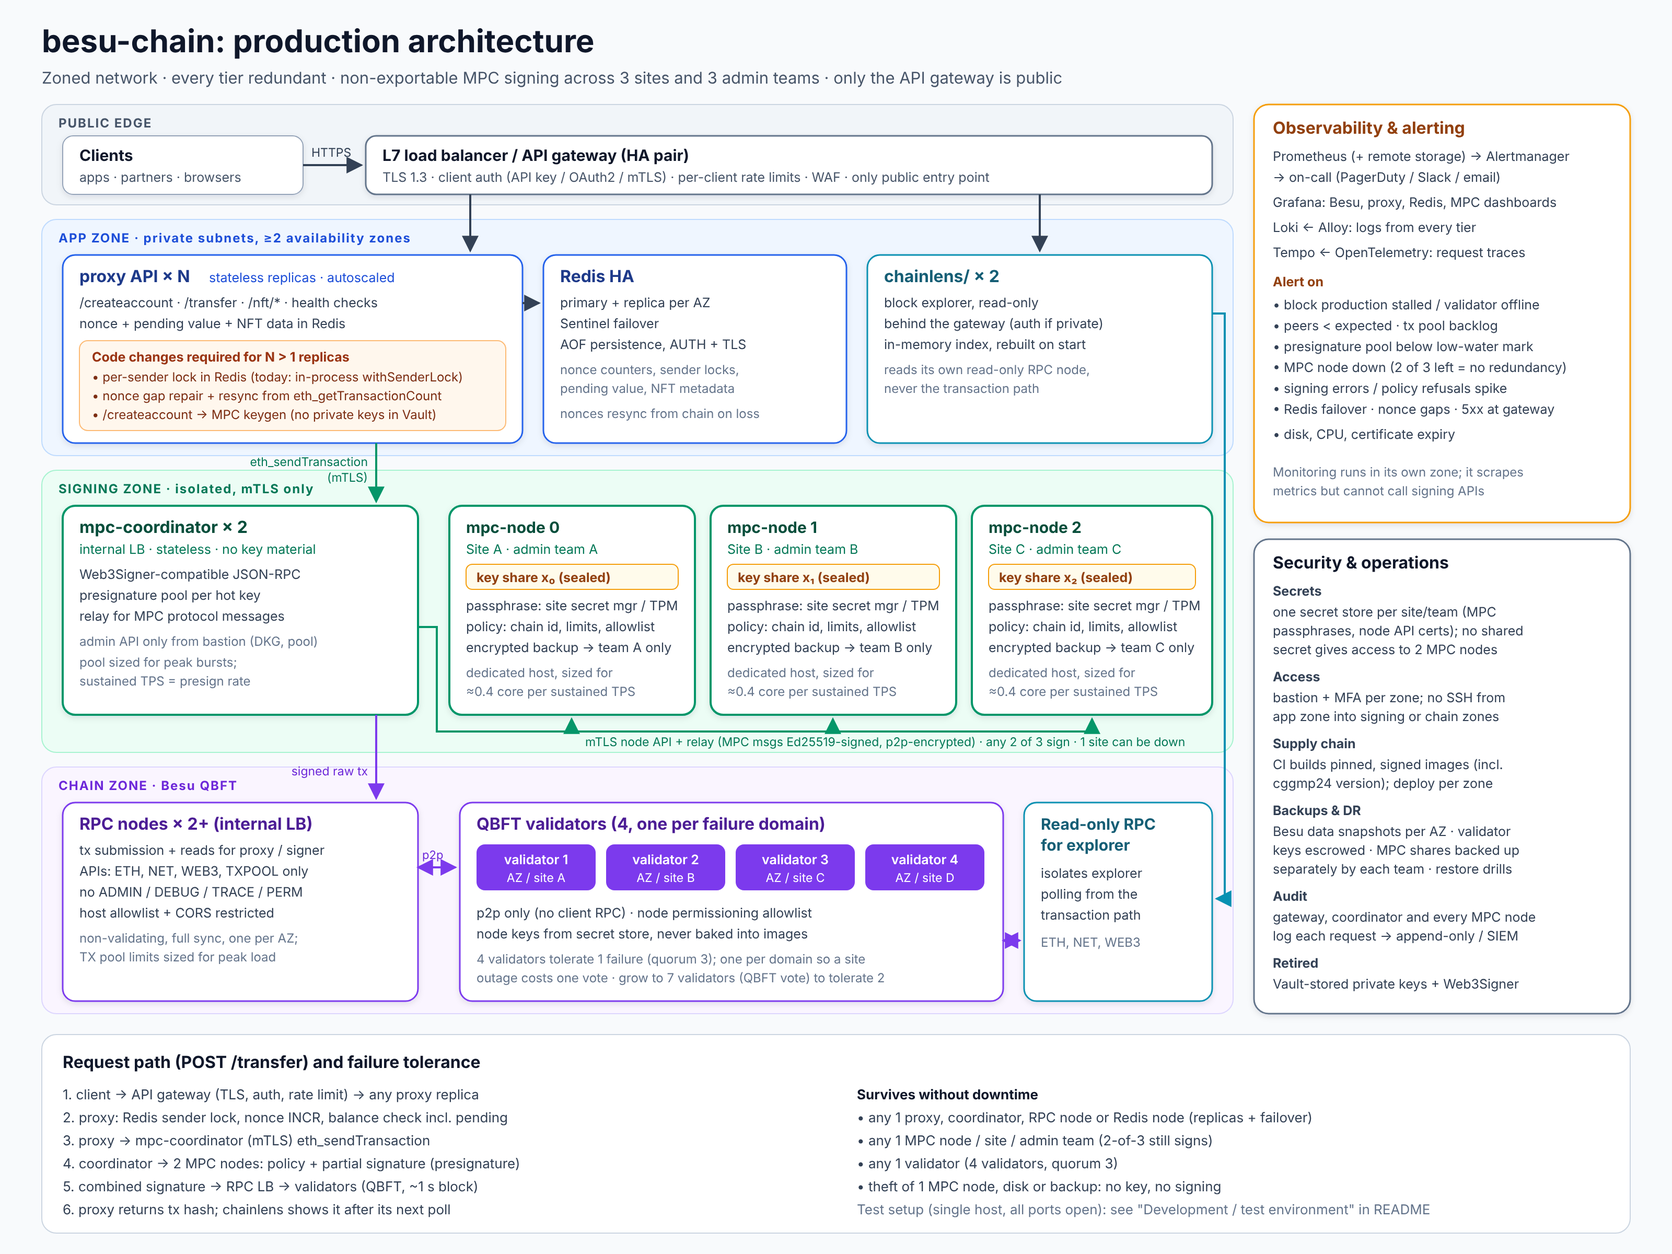
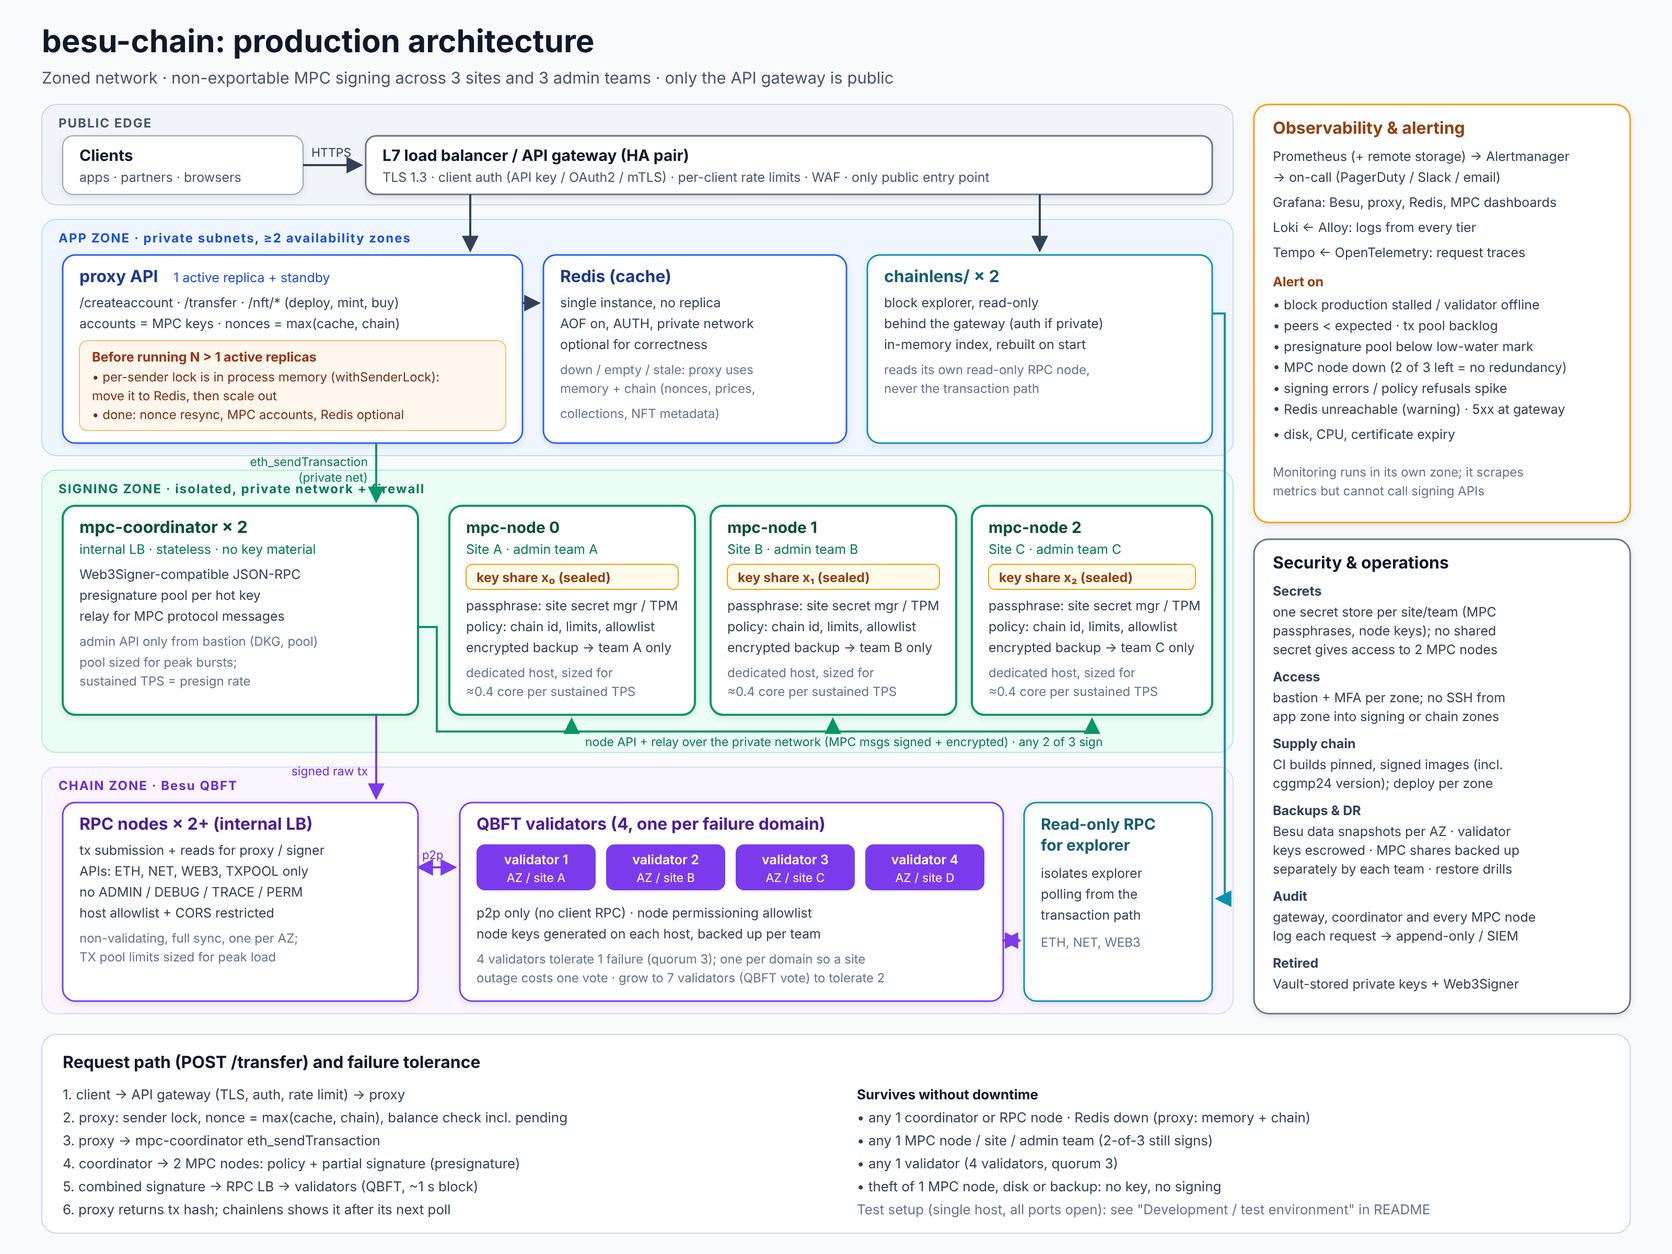
docs: rewrite root README for production and development; refresh production diagram
README: dev vs production overview, components, request flows (transfer,
createaccount, NFT mint and atomic buy), production zones, deployment
order across mpc-signer, besu-production, proxy, chainlens, gateway and
monitoring, failure tolerance, remaining gaps, development quick start,
benchmark, proxy API table and documentation index.

Production diagram updated to the current state: proxy 1 active replica +
standby (sender lock still in memory), Redis as an optional single
instance cache, no mTLS claims (private network + firewall), validator
keys generated per host.

Claude-Session: https://claude.ai/code/session_019V6cx31VFNJeRBvaBtQspb

diff --git a/README.md b/README.md
@@ -1,11 +1,62 @@
 # besu-chain
 
-A private Hyperledger Besu (QBFT) network with:
-- an application API (`proxy/`) for accounts, transfers and NFTs
-- a block explorer (`chainlens/`) and monitoring
-- non-exportable transaction signing with a 2-of-3 MPC signer (`mpc-signer/`), where the private key never exists anywhere. It replaces the current Vault + Web3Signer setup.
+A private Hyperledger Besu (QBFT) blockchain with:
 
-## Production architecture
+- **`proxy/`**: an application API for accounts, ETH transfers and NFT collections;
+- **`mpc-signer/`**: **non-exportable transaction signing**, a 2-of-3 MPC signer where the private
+  key never exists anywhere. It replaces Vault + Web3Signer.
+- **`chainlens/`**: a block explorer, plus monitoring.
+
+The same components run in two setups:
+
+| | Development / test | Production |
+|---|---|---|
+| Where | everything on one Docker host | separate hosts, sites and admin teams |
+| Besu | [`besu-test-network/`](besu-test-network) | [`besu-production/`](besu-production) |
+| MPC signer | [`mpc-signer/quickstart/`](mpc-signer/quickstart) (3 nodes on one host) | [`mpc-signer/deploy/`](mpc-signer/deploy) (one node per host and team) |
+| Proxy, explorer | `proxy/`, `chainlens/` with Docker Compose | same images, private network, behind an API gateway |
+| Guide | [Development](#development--test-environment) | [Production](#production) |
+
+**Contents**
+- [Components](#components)
+- [What happens on a request](#what-happens-on-a-request)
+- [Production](#production): architecture, deployment order, failure tolerance, remaining gaps
+- [Development / test environment](#development--test-environment)
+- [Proxy API](#proxy-api)
+- [Documentation index](#documentation-index)
+
+---
+
+## Components
+
+| Folder | What it is | Ports |
+|---|---|---|
+| [`besu-production/`](besu-production) | **Production Besu**: per-host packages for validators and RPC nodes. Keys are generated on each host; network files are checksummed; static peers + node allowlist; validators added or removed by vote. | 30303 p2p, 8545 RPC nodes, 9545 metrics |
+| [`besu-test-network/`](besu-test-network) | **Development Besu**: 4 validators + `rpcnode` on one host, chain id 1337, 1 s blocks, zero gas price. Prometheus, Grafana, Loki + Alloy, Tempo. (Its bundled Chainlens services are not used.) | 8545 / 8546 rpcnode, 21001–21004, 9090, 3000, 3100 |
+| [`mpc-signer/`](mpc-signer) | **2-of-3 threshold ECDSA signer** (CGGMP24 / LFDT Lockness), Web3Signer-compatible JSON-RPC. Quick start, production packages, benchmark. | 9100 coordinator, 7000 nodes |
+| [`proxy/`](proxy) | **Application API** (Node.js/Express): accounts, transfers, NFT collections. Redis is an optional cache: correctness comes from memory + the chain. | 30000 API, 36379 Redis |
+| [`chainlens/`](chainlens) | **Block explorer** (Node.js/Express): blocks, transactions, accounts, contracts, NFTs. NFT sales show the image. Polls RPC every 4 s, indexes in memory, re-indexes after a chain reset. | 30100 |
+| [`besu-vault-web3signer/`](besu-vault-web3signer) | **Previous signer, being retired**: Vault KV keeps exportable private keys and Web3Signer loads them into memory. Kept for comparison benchmarks. | 8200 Vault, 9000 Web3Signer |
+
+## What happens on a request
+
+**`POST /transfer`** (ETH from an account):
+1. The proxy takes the sender's lock and computes the nonce as max(cached counter, chain pending count), so a lost or stale Redis is harmless.
+2. It checks the balance, including value still pending.
+3. It calls `eth_sendTransaction` on the MPC coordinator.
+4. **2 of the 3 MPC nodes** each check the transaction against their own policy (chain id, value and gas limits, allowlist) and produce a partial signature from a single-use presignature. The coordinator combines them into a normal ECDSA signature.
+5. The signed transaction goes to a Besu RPC node, and the QBFT validators include it in the next block.
+
+**`POST /createaccount`**: the 3 MPC nodes run **distributed key generation**. The new account's private key never exists. `SENDER01` then funds it.
+
+**NFTs** (collections are `NftCollection` version 2, deployed by `SENDER01`):
+- **`POST /nft/mint`** mints to `SENDER01` and stores the **price** on chain. Nothing is paid.
+- **`POST /nft/transfer`** is a sale. The buyer signs **one atomic `buy` transaction**: they pay exactly the price to `SENDER01` and receive the NFT, or nothing happens at all.
+- Collections can be chosen by name, symbol or address.
+
+---
+
+## Production
 
 ![besu-chain production architecture](docs/architecture-production.png)
 
@@ -15,100 +66,127 @@ A private Hyperledger Besu (QBFT) network with:
 
 | Zone | Contents | Reachable from |
 |---|---|---|
-| **Public edge** | L7 load balancer / API gateway (HA pair): TLS 1.3, client authentication (API key, OAuth2 or mTLS), per-client rate limits, WAF | internet (the only public entry) |
-| **App zone** (private subnets, ≥ 2 AZs) | `proxy` × N (stateless, autoscaled), Redis HA (Sentinel, AOF, AUTH + TLS), `chainlens` × 2 (read-only) | gateway only |
-| **Signing zone** (isolated, mTLS only, no internet egress) | `mpc-coordinator` × 2 behind an internal LB; `mpc-node` 0/1/2 on **3 sites run by 3 different admin teams** | proxy → coordinator; coordinator → nodes; bastion for admin |
-| **Chain zone** | RPC nodes × 2+ (internal LB, non-validating); 4 QBFT validators, one per failure domain; a separate read-only RPC node for the explorer | signing + app zones (RPC only); validators: p2p only |
-| **Ops** | Prometheus + Alertmanager, Grafana, Loki + Alloy, Tempo; per-site secret stores; bastion + MFA; CI with pinned, signed images | scrapes metrics; cannot call signing APIs |
+| **Public edge** | L7 load balancer / API gateway (HA pair, bring your own, e.g. nginx, HAProxy, Kong): TLS, client authentication, rate limits, WAF | internet: the **only** public entry |
+| **App zone** | `proxy` (1 active + standby), Redis (single instance, a cache), `chainlens` | the gateway |
+| **Signing zone** | `mpc-coordinator` × 1–2 (no key material); `mpc-node` 0/1/2 on **3 sites, run by 3 different admin teams** | proxy → coordinator → nodes, nodes → coordinator relay; each team's bastion |
+| **Chain zone** | 4 QBFT validators, one per failure domain (p2p only); RPC nodes × 2+ for apps; 1 read-only RPC node for the explorer | apps → RPC nodes only; validators: p2p + the operator over SSH |
+| **Ops** | Prometheus + Alertmanager, Grafana, logs; per-team secret stores and backups; bastion + MFA | scrapes metrics; cannot call signing APIs |
 
-### Request path (`POST /transfer`)
+All hosts communicate over a **private encrypted network** (WireGuard or a site-to-site VPN),
+with default-deny firewalls. Each package includes `firewall-example.sh` with the exact ports.
 
-1. The client calls the API gateway, which checks TLS, authentication and rate limits, then routes to any proxy replica.
-2. The proxy takes the sender's lock in Redis, takes the next nonce with Redis `INCR`, and checks the balance, including value still pending.
-3. The proxy calls `eth_sendTransaction` on `mpc-coordinator` over mTLS. This is the same JSON-RPC Web3Signer exposes.
-4. The coordinator asks 2 of the 3 MPC nodes for partial signatures. Each node checks the transaction against its policy (chain id, value and gas limits, allowlist) before signing, using a single-use presignature. The coordinator combines the partials into a normal ECDSA signature.
-5. The signed raw transaction goes through the RPC load balancer to the validators, which include it in a block (QBFT, about 1 s).
-6. The proxy returns the tx hash. `chainlens` shows the transaction after its next poll of its own read-only RPC node.
+### Deployment order
+
+The MPC signer comes first: its first key, `SENDER01`, is funded in the Besu genesis block.
+
+| # | Step | Guide | Result |
+|---|---|---|---|
+| 1 | **MPC signer: nodes + key ceremony.** 3 node hosts (one team each), coordinator(s), `cluster.json` with the signing policy, aux info + key generation. | [`mpc-signer/docs/production.md`](mpc-signer/docs/production.md), steps 1–8 | `SENDER01` address; no private key exists |
+| 2 | **Besu network.** Each validator and RPC host runs `init.sh`; the operator runs `make-network.sh` with `ALLOC="<SENDER01>=<wei>"`; each host runs `start.sh` (verifies `SHA256SUMS`). | [`besu-production/README.md`](besu-production/README.md) | running chain; `SENDER01` funded |
+| 3 | **Connect the signer to Besu.** On the coordinator(s), set `MPC_BESU_RPC` = an app RPC node and `MPC_POOL_KEYS=<SENDER01>`, then `docker compose up -d`. | [`mpc-signer/docs/production.md`](mpc-signer/docs/production.md), steps 8–10 | hot-key presignature pool filling |
+| 4 | **Proxy + Redis.** In `proxy/.env` set: `BESU_IP` / `BESU_PORT` = app RPC node; `WEB3SIGNER_IP` / `WEB3SIGNER_PORT` = coordinator:9100; `SENDER01`; `MPC_ADMIN_URL` / `MPC_ADMIN_TOKEN`; `REDIS_*`; **no** `VAULT_*` and no `NFT_CONTRACT`. Then `docker compose up -d --build`. | [`docs/proxy-with-mpc-signer.md`](docs/proxy-with-mpc-signer.md) | API on :30000 (private) |
+| 5 | **NFT collections.** `POST /nft/deploy` for each collection (unique name and symbol). | [`proxy/api.txt`](proxy/api.txt) | version-2 collections, minter = `SENDER01` |
+| 6 | **Explorer.** `chainlens/.env`: `BESU_RPC` = the read-only explorer RPC node; then `docker compose up -d --build`. | [`chainlens/`](chainlens) | explorer on :30100 (private) |
+| 7 | **API gateway** in front of the proxy and chainlens (TLS, auth, rate limits). | your gateway | the only public entry |
+| 8 | **Monitoring and backups.** Prometheus targets (`besu-production/monitoring/prometheus.yml`), alerts, per-team MPC share backups (`deploy/node/backup.sh`), validator key backups (`backup-key.sh`), restore drill. | both production guides | |
 
 ### What keeps running when something fails
 
 | Failure | Effect |
 |---|---|
-| 1 proxy, coordinator, RPC node or Redis node | none: replicas and failover take over |
-| 1 MPC node, site or admin team | none: the other 2 of 3 still sign (alert: no redundancy left) |
-| 1 validator | none: 4 validators, quorum 3. Grow to 7 to tolerate 2. |
-| theft of 1 MPC node, its disk or its backup | attacker gets no key and cannot sign |
-| presignature pool empty under sustained load | signing slows to the cold path (about 0.6 s per signature) and an alert fires. Size MPC node CPU at about 0.4 cores per sustained TPS (see [`mpc-signer/bench/RESULTS.md`](mpc-signer/bench/RESULTS.md)). |
+| 1 MPC node, site or admin team | none: the other 2 of 3 sign. `/createaccount` waits for all 3 (key generation). |
+| theft of 1 MPC node, disk or backup | the attacker gets one share: **no key, cannot sign** |
+| 1 validator (of 4) | none: quorum is 3. Grow to 7 validators to tolerate 2. |
+| 1 coordinator or app RPC node (with 2 deployed) | none, behind the internal load balancer |
+| Redis down, empty or restored from an old snapshot | none for correctness: the proxy uses memory + the chain (nonces, prices, collections, metadata) |
+| proxy process | requests fail until the standby takes over (one active replica today, see below) |
+| sustained load beyond the presignature rate | signing slows to the cold path (~0.6 s per signature). Size MPC node CPU at ~0.4 cores per sustained TPS ([`mpc-signer/bench/RESULTS.md`](mpc-signer/bench/RESULTS.md)). |
 
-### Hardening the test setup needs before production
+### Remaining gaps before full production
 
-The repository today is a single-host test setup. These items are drawn in the production
-diagram but are **not done yet**:
+- **Proxy:** the per-sender lock is in process memory, so run **one active replica** (with a
+  standby) until it moves to Redis.
+- **MPC signer:**
+  - no mTLS on the node API and no authentication on the relay; mitigated by the private
+    network and firewall;
+  - no key refresh: if a share is lost for good, create new keys and move funds;
+  - EIP-1559 transactions not supported;
+  - `cggmp24 0.7.0-alpha.3` is an alpha release, and its audit covers an earlier version.
+- **Besu:** no TLS on JSON-RPC (private network or an internal TLS proxy); the node allowlist is
+  a file, so changing it means restarting the nodes.
+- **Gateway and centralized monitoring** are not included in this repository; bring your own.
 
-- **proxy, before running more than one replica:**
-  - The per-sender lock (`withSenderLock`) and the account lock live in the process's memory. Move them to Redis.
-  - Add nonce-gap repair and a resync from `eth_getTransactionCount`.
-  - Make `/createaccount` create MPC keys (`POST /admin/keys`) instead of storing private keys in Vault.
-- **mpc-signer:**
-  - Add mTLS on the node API and authentication on the relay. Today these use a bearer token, but message contents are already end-to-end signed and encrypted.
-  - Support EIP-1559 transactions if needed.
-  - Pin and review `cggmp24`: 0.7 is an alpha release, and its audit covers an earlier version.
-- **Besu** (`besu-test-network/config/besu/config.toml` today):
-  - Remove `ADMIN`, `DEBUG`, `TRACE` and `PERM` from client-facing RPC nodes.
-  - Replace `host-allowlist=["*"]` and the `*` CORS settings.
-  - Stop exposing validator RPC ports.
-  - Load node keys from a secret store.
-- **Redis:** run primary + replica with Sentinel, AOF, AUTH and TLS. Today it is a single instance.
-- **Ops:** set up Alertmanager rules (alert list in the diagram), per-team backups of MPC shares, Besu snapshots, and restore drills.
-
-### Components
-
-| Folder | Role in production | Ports (test setup) |
-|---|---|---|
-| [`besu-production/`](besu-production) | Production Besu QBFT network: per-host packages for validators and RPC nodes, keys generated on each host, network files with checksums, static peers + node allowlist, validator add/remove by vote. | 30303 p2p, 8545 RPC nodes, 9545 metrics |
-| [`besu-test-network/`](besu-test-network) | Besu QBFT network: 4 validators + `rpcnode`, chain id 1337, 1 s blocks, zero gas price, node permissioning. Observability: Prometheus, Grafana, Loki + Alloy, Tempo + OpenTelemetry Java agent. The Chainlens services bundled in this compose file are not used. | 8545/8546 rpcnode, 21001–21004 validators, 9090, 3000, 3100 |
-| [`proxy/`](proxy) | Application API: `POST /createaccount`, `/transfer`, `/nft/deploy`, `/nft/mint`, `/nft/transfer`, plus read endpoints. Redis holds nonces, pending value and NFT metadata. | 30000 API, 36379 Redis |
-| [`chainlens/`](chainlens) | The block explorer in use: Node.js/Express web UI for blocks, transactions, accounts, contracts and NFTs. Polls RPC every 4 s and keeps its index in memory. Runs with Docker (`docker compose up -d --build`, set `BESU_RPC` in `.env`). | 30100 |
-| [`mpc-signer/`](mpc-signer) | Non-exportable 2-of-3 signer (CGGMP24 / LFDT Lockness), Web3Signer-compatible. Production: [`mpc-signer/docs/production.md`](mpc-signer/docs/production.md) with per-role packages in `mpc-signer/deploy/`. | 9100 coordinator, 7000 nodes |
-| [`besu-vault-web3signer/`](besu-vault-web3signer) | Current signer, to be retired: Vault KV keeps exportable private keys, and Web3Signer loads them into memory. | 8200 Vault, 9000 Web3Signer |
-
-MPC signer internals:
-
-![mpc-signer architecture](mpc-signer/docs/architecture.png)
-
-Details: [`mpc-signer/README.md`](mpc-signer/README.md) (quick start, production deployment,
-security notes) and [`mpc-signer/bench/RESULTS.md`](mpc-signer/bench/RESULTS.md) (throughput vs
-Vault + Web3Signer).
-
-## Guides
-
-- [Run the proxy with the MPC signer (no Vault, no Web3Signer)](docs/proxy-with-mpc-signer.md): step-by-step from a fresh start
-- [Deploy the MPC signer in production](mpc-signer/docs/production.md): three node hosts and teams, coordinators, key ceremony, backups and operations
-- [Deploy Besu in production](besu-production/README.md): validators and RPC nodes on separate hosts, permissioned QBFT network, adding validators, operations
+---
 
 ## Development / test environment
 
-Everything runs on one host with Docker Compose. Both signers are available side by side for
-comparison, and all ports are open. Use it for development and benchmarks only.
+Everything on one host with Docker Compose. All ports are open, keys are test keys, and both
+signers are available side by side. **Do not use it for production.**
 
-![besu-chain test environment](docs/architecture-dev.png)
+![besu-chain development / test environment](docs/architecture-dev.png)
 
 <sub>Source: [`docs/architecture-dev.svg`](docs/architecture-dev.svg)</sub>
 
 ```bash
-# 1. Besu network + monitoring
+# 1. Besu test network + monitoring (chain id 1337, rpcnode on :8545, Grafana on :3000)
 cd besu-test-network && ./run.sh
 
-# 1b. Block explorer in Docker (http://localhost:30100)
-cd chainlens && cp .env.example .env && docker compose up -d --build
+# 2. MPC signer: 3 nodes + coordinator on this host (prints SENDER01 after setup)
+cd mpc-signer/quickstart
+MPC_BIGINT=bigint-rug CHAIN_ID=1337 ./quickstart.sh init
+./quickstart.sh up && ./quickstart.sh setup
+#    then in quickstart/.env: MPC_POOL_KEYS=<SENDER01>  and  ./quickstart.sh up
 
-# 2. Signer: the MPC signer (Docker) ...
-cd mpc-signer/quickstart && ./quickstart.sh init && ./quickstart.sh up && ./quickstart.sh setup
-#    ... or the current one: see besu-vault-web3signer/README.md
+# 3. Fund SENDER01: add it to besu-test-network/config/besu/genesis.json "alloc" before step 1
+#    (or transfer from a funded test account)
 
-# 3. Proxy API (set BESU_IP, WEB3SIGNER_IP/PORT, REDIS_* in proxy/.env)
+# 4. Proxy + Redis (proxy/.env: BESU_IP/PORT, WEB3SIGNER_IP/PORT=<coordinator>:9100, SENDER01,
+#    MPC_ADMIN_URL, MPC_ADMIN_TOKEN, REDIS_*)
 cd proxy && docker compose up -d --build
 
-# Benchmark old vs new signer against your running stack
-cd mpc-signer && OLD_STACK=existing bench/run-bench.sh
+# 5. Explorer on http://localhost:30100 (chainlens/.env: BESU_RPC)
+cd chainlens && cp .env.example .env && docker compose up -d --build
 ```
+
+The full walkthrough, including troubleshooting (policy limit, nonce gaps, stale NFT contract
+after a chain reset) is [`docs/proxy-with-mpc-signer.md`](docs/proxy-with-mpc-signer.md).
+
+**Benchmark** the MPC signer against Vault + Web3Signer:
+
+```bash
+cd mpc-signer && bench/run-bench.sh                     # its own Besu + Vault + Web3Signer
+cd mpc-signer && OLD_STACK=existing bench/run-bench.sh  # your running stack
+```
+
+Results are in [`mpc-signer/bench/RESULTS.md`](mpc-signer/bench/RESULTS.md).
+
+---
+
+## Proxy API
+
+| Endpoint | Body / query | What it does |
+|---|---|---|
+| `POST /createaccount` | `{amount}` | new account = new MPC key, funded with `amount` ETH from `SENDER01` |
+| `POST /transfer` | `{from, to, amount, memo?}` | ETH transfer signed by the MPC signer |
+| `GET /transfer/:txHash` | | transaction status and memo |
+| `POST /nft/deploy` | `{name, symbol}` | deploys a **new** collection (names and symbols must be unique) |
+| `GET /nft/collections` | | all collections (address, name, symbol, default) |
+| `POST /nft/mint` | `{collection?, name, image, description?, attributes?, properties?, amount}` | mints to `SENDER01`; `amount` = the price, stored on chain |
+| `POST /nft/transfer` | `{collection?, to, tokenId, from?}` | sale: the buyer signs one atomic `buy` (pays the price to `SENDER01`, receives the NFT) |
+| `GET /nft/:tokenId`, `/nft/:tokenId/metadata` | `?collection=` | token, owner, metadata (read from the chain if Redis has nothing) |
+| `GET /nft/owner/:address` | `?collection=` | tokens owned, per collection |
+
+`collection` accepts a collection's name, symbol or address; without it the default (first)
+collection is used. Full examples: [`proxy/api.txt`](proxy/api.txt).
+
+## Documentation index
+
+| Document | Topic |
+|---|---|
+| [`besu-production/README.md`](besu-production/README.md) | Production Besu: hosts, network files, start, validator add/remove, operations |
+| [`mpc-signer/docs/production.md`](mpc-signer/docs/production.md) | Production MPC signer: 3 teams, tokens, key ceremony, backups and restore, operations |
+| [`docs/proxy-with-mpc-signer.md`](docs/proxy-with-mpc-signer.md) | Running the proxy on the MPC signer, Redis-optional design, troubleshooting |
+| [`mpc-signer/README.md`](mpc-signer/README.md) | MPC signer design, Docker quick start, security notes ([diagram](mpc-signer/docs/architecture.png)) |
+| [`mpc-signer/bench/RESULTS.md`](mpc-signer/bench/RESULTS.md) | Throughput: MPC vs Vault + Web3Signer, sizing |
+| [`proxy/api.txt`](proxy/api.txt) | Proxy API examples |
+| [`proxy/contracts/NftCollection.sol`](proxy/contracts/NftCollection.sol) | NFT collection v2 (price at mint, atomic `buy`) |
